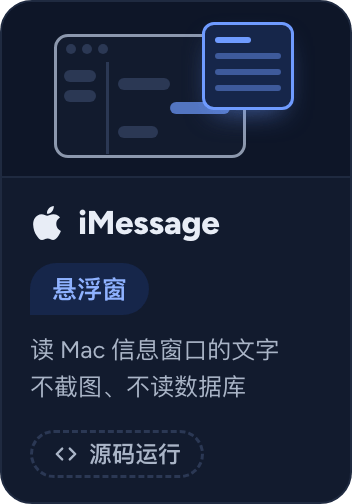
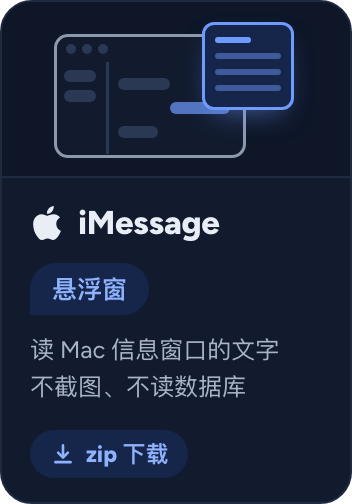
docs(profile): iMessage card links to v0.1.0 release

Changed region(s): [[0.0938, 0.8333, 0.5625, 0.9524], [0.5625, 0.8631, 0.5938, 0.9226]]

diff --git a/profile/assets/src/card.html b/profile/assets/src/card.html
@@ -104,7 +104,7 @@
     windows: { icon: "windows", name: "Windows", form: "窗口旁挂", how: "截自己的聊天窗口\n本机离线 OCR",         status: ["dl", "zip 下载"] },
     ios:     { icon: "apple",   name: "iOS",     form: "键盘版",   how: "iPhone 键盘版，源码形式",              status: ["src", "源码自行编译"] },
     macos:   { icon: "apple",   name: "macOS",   form: "悬浮窗",   how: "读窗口里的文字\n或截窗口后本机 OCR",     status: ["dl", "zip 下载"] },
-    imessage:{ icon: "apple",   name: "iMessage", form: "悬浮窗",  how: "读 Mac 信息窗口的文字\n不截图、不读数据库",  status: ["src", "源码运行"] }
+    imessage:{ icon: "apple",   name: "iMessage", form: "悬浮窗",  how: "读 Mac 信息窗口的文字\n不截图、不读数据库",  status: ["dl", "zip 下载"] }
   };
 
   var p = (/[?&]p=(\w+)/.exec(location.search) || [])[1] || "android";
